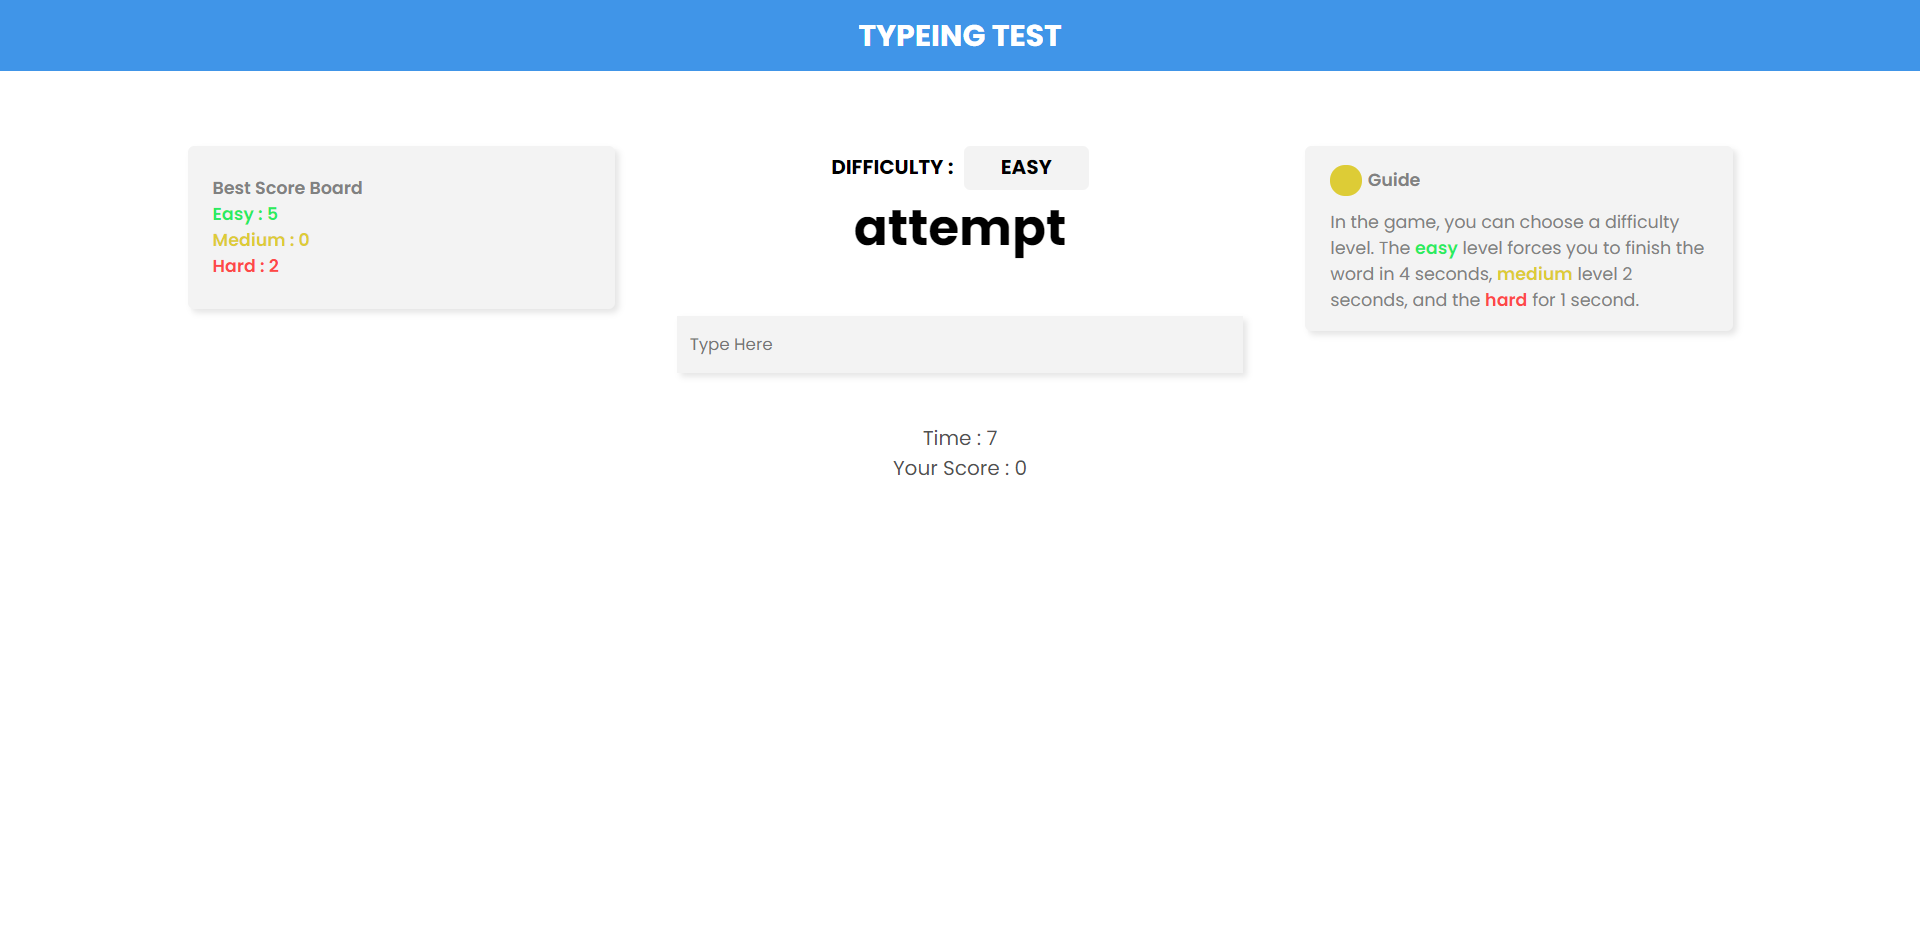
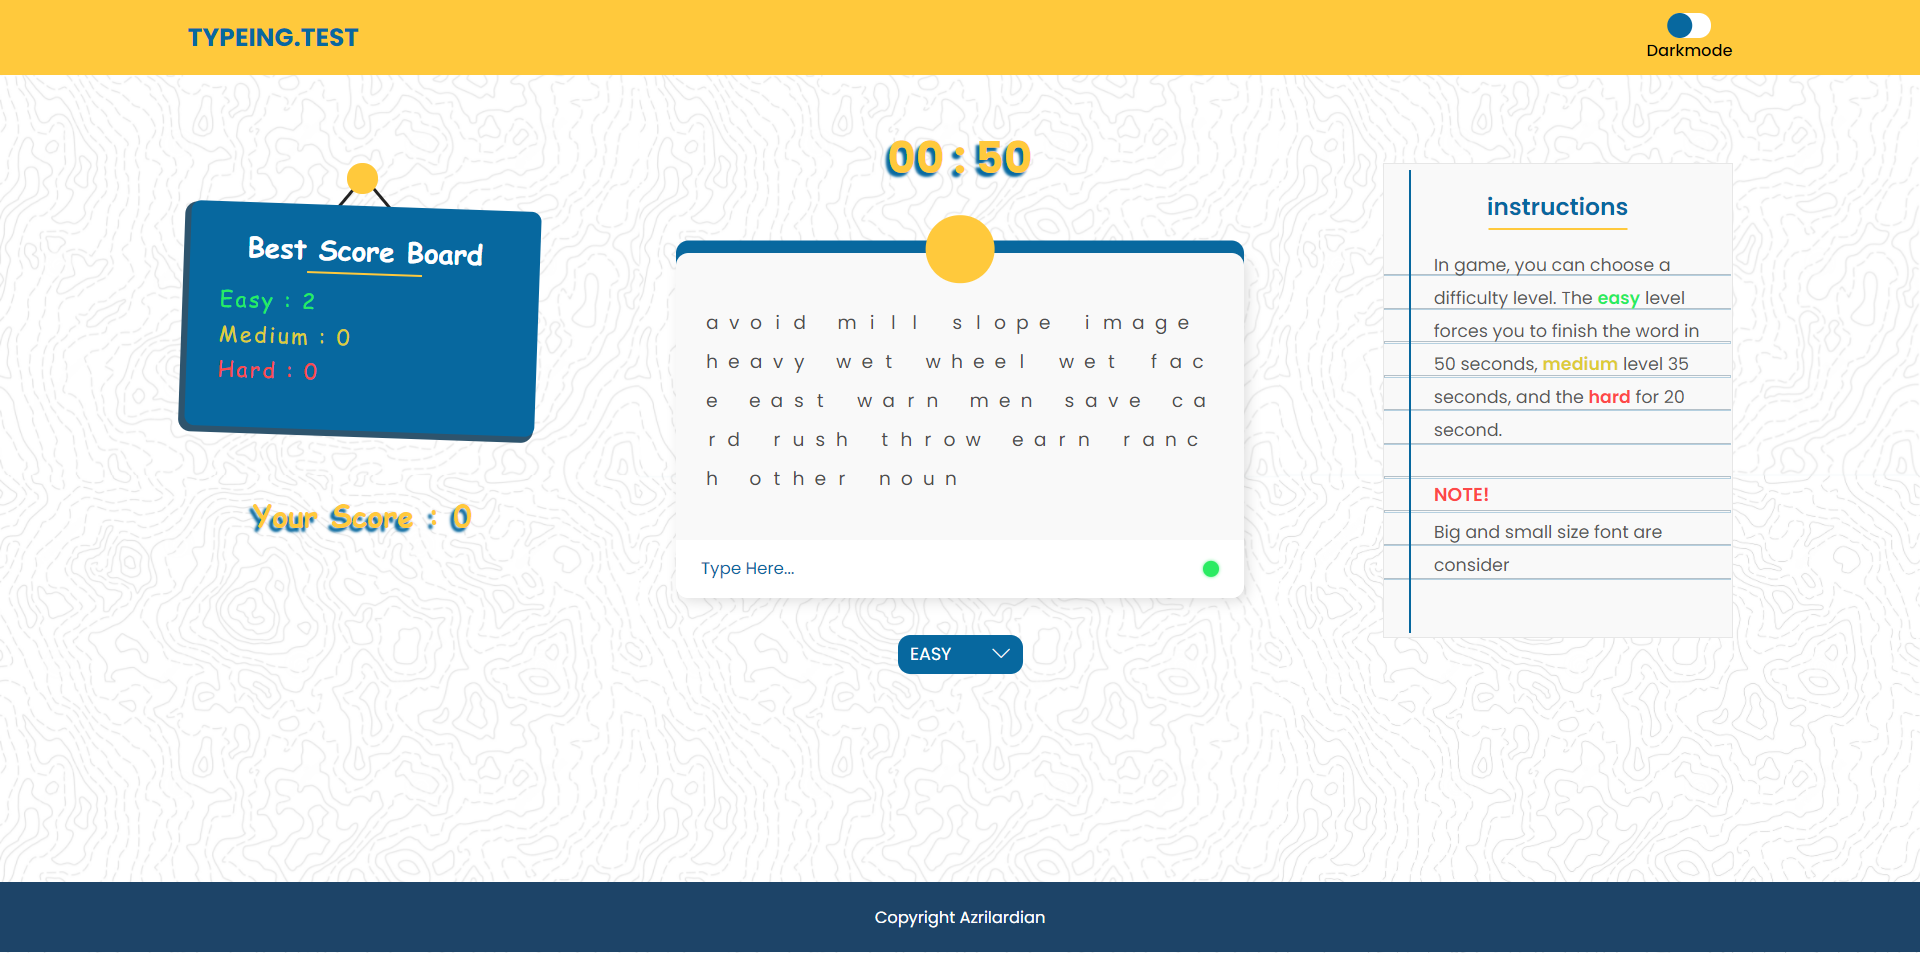
Update : menambah readme

diff --git a/readme.md b/readme.md
@@ -1,8 +1,8 @@
-# Typing Game Sederhana
+# Typengers
 
 ## Apa dan Tujuan
 
-Ini merupakan typing game sederhana hasil dari ATM ( **A**mati, **T**iru, **M**odifikasi) salah satu vidio pembelajaran di _channel_ [channel traversy media](). Project ini saya buat dengan tujuan untuk mengasah logika pemrograman saya, terutama pada bahasa pemrograman Javascript.
+Ini merupakan pengembangan lebih lanjut dari _project_ [Typeing Test Sederhana](), dengan perubahan yang signifikan ada pada tampilan UI aplikasi.
 
 ## Teknologi yang digunakan
 
@@ -14,8 +14,11 @@ Ini merupakan typing game sederhana hasil dari ATM ( **A**mati, **T**iru, **M**o
 ## Fitur
 
 -   Responsif pada semua ukuran _device_
--   Penyimpanan data pada local storage
+-   Darkmode
+-   Penyimpanan data pada _local storage_
 
 ## Screenshot
 
 ![Screenshot 1](./Screenshot/1.png)
+
+![Screenshot 2](./Screenshot/2.png)
